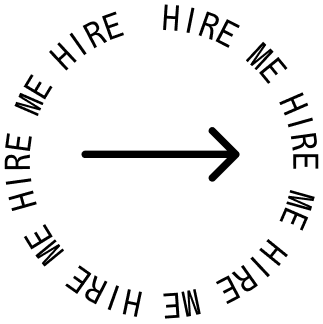
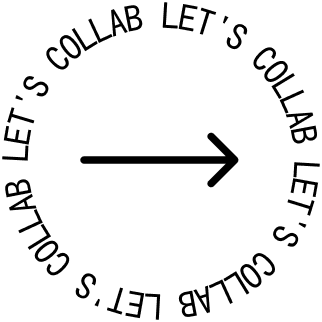
max-width,

diff --git a/src/app/Hero.tsx b/src/app/Hero.tsx
@@ -19,9 +19,8 @@ export default function Hero() {
     const firstNameEl = document.querySelector(`.${styles.firstName}`);
     const lastNameEl = document.querySelector(`.${styles.lastName}`);
     const ctaEl = document.querySelector(`.${styles.cta}`);
-    const photos = document.querySelectorAll(`.${styles.photo}`);
 
-    // Apply basic animation to verify elements are being animated
+    // Apply animation to Joakim Andersson heading
     gsap.fromTo(
       firstNameEl,
       { x: -window.innerWidth, opacity: 0 },
@@ -34,24 +33,16 @@ export default function Hero() {
       { x: 0, opacity: 1, duration: 1, ease: 'power4.out', delay: 0.5 }
     );
 
-    // Apply wacky animations to photos
-    photos.forEach((photo, index) => {
-      gsap.fromTo(photo, {
-        opacity: 0,
-        x: gsap.utils.random(-100, 100),
-        y: gsap.utils.random(-100, 100),
-        rotation: gsap.utils.random(-90, 180),
-        scale: gsap.utils.random(0.5, 1.5)
-      }, {
-        opacity: 1,
-        x: 0,
-        y: 0,
-        rotation: 0,
-        scale: 1,
-        duration: 2,
-        ease: 'elastic.out(1, 0.9)',
-        delay: index * 0.2
-      });
+    // Add subtle rotate animation to the CTA
+    gsap.to(ctaEl, {
+      rotation: 10,
+      duration: 0.4,
+      yoyo: true,
+      repeat: 2,
+      delay: 1, // Start after the heading animation
+      onComplete: () => {
+        gsap.to(ctaEl, { rotation: 0, duration: 0.2 });
+      }
     });
   }, []);
 
@@ -120,11 +111,13 @@ export default function Hero() {
           />
         </div>
         <div className={`${styles.photo} ${styles.cta}`}>
-          <Image
-            priority
-            src={cta}
-            alt="Description 6"
-          />
+          <a href="mailto:heytherejoakim@gmail.com">
+            <Image
+              priority
+              src={cta}
+              alt="link to collaborate with Joakim."
+            />
+          </a>
         </div>
       </div>
     </section>

diff --git a/src/app/About.tsx b/src/app/About.tsx
@@ -93,7 +93,7 @@ export default function About() {
         </p>
       </div>
       <div className={`${styles.section} ${styles.sectionThree}`}>
-        <p>Open for work<br></br>@joakim</p>
+        <p>Open for work<br></br>@heytherejoakim</p>
         <p className={styles.greyBars}>BEHIND</p>
         <p className={styles.greyBars}>THE</p>
         <p className={styles.greyBars}>CAMERA</p>

diff --git a/src/app/globals.css b/src/app/globals.css
@@ -1,5 +1,7 @@
 :root {
-  --max-width: 1100px;
+    margin-left: auto;
+    margin-right: auto;
+    max-width: 1500px;
   --border-radius: 12px;
   --body-font-color: #4E5759;
   --bg-color: #F0F0F0;

diff --git a/src/app/page.module.css b/src/app/page.module.css
@@ -187,6 +187,11 @@
   padding: 20px;
 }
 
+@media (max-width: 900px) {
+  .filterSection button {
+    font-size: 12px;
+  }
+}
 
 @media (max-width: 968px) {
   .photoSection {
